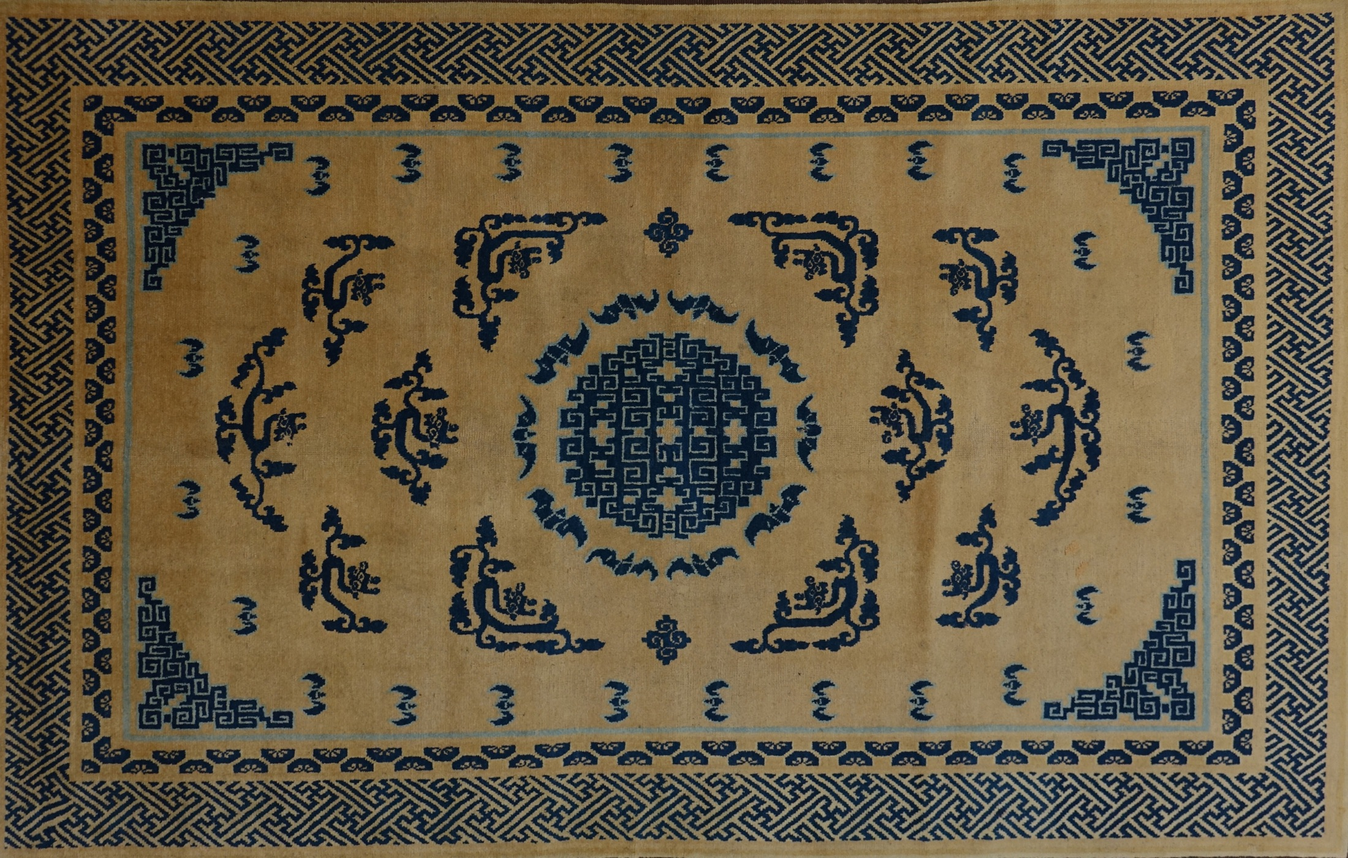
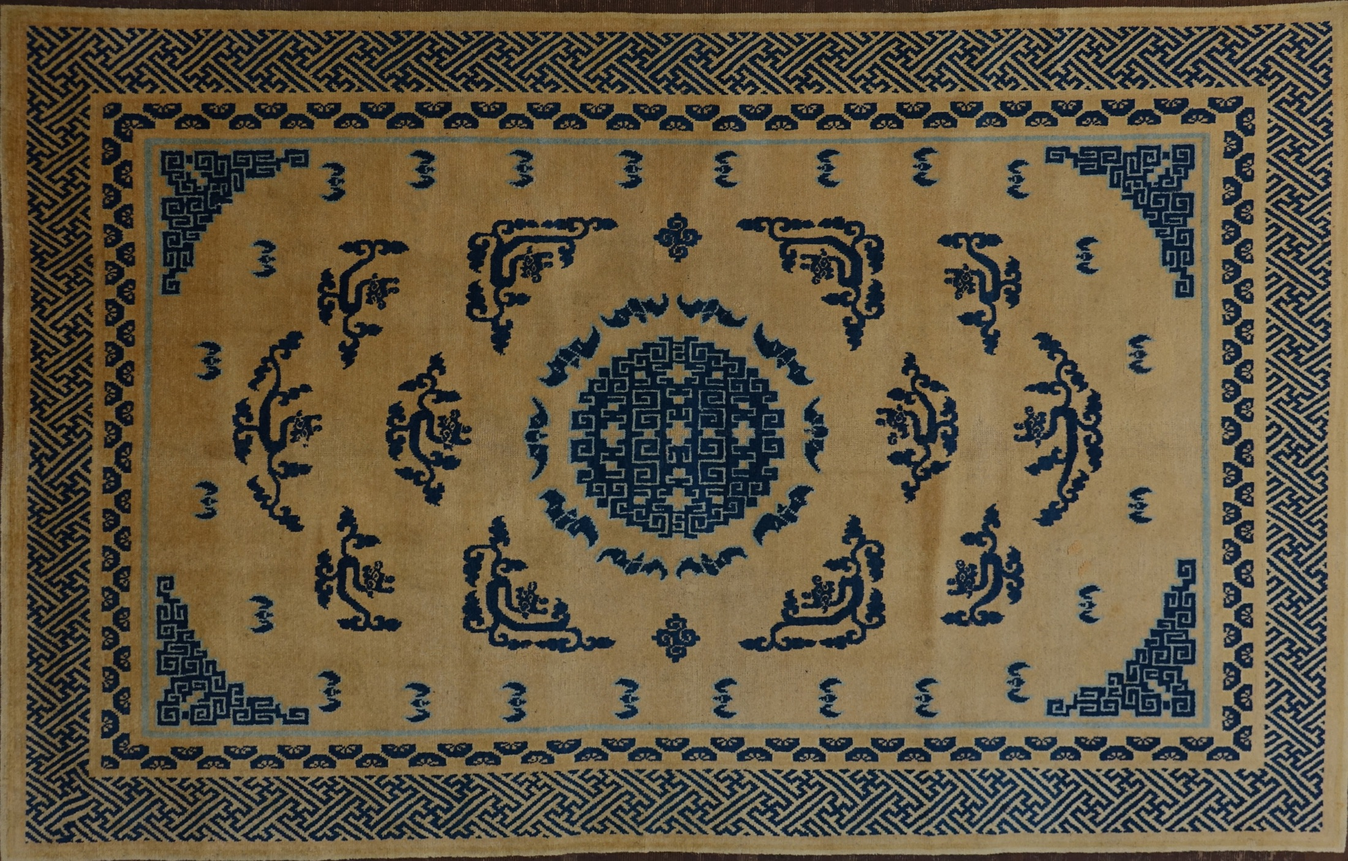
Re-crop the rug photos: no backdrop strip or doubled fringe at the ends
crop-rug.swift flipped the crop rectangle as if cropping(to:) measured
from the bottom-left. It measures from the top-left, so every crop
slid along the rug's length: one end cut into the border, the other
kept the photo's own fringe and a strip of the grey backdrop, which
showed as a grey band beside Underrug's fringe. It also now needs 80%
of a row to be rug, so fringe strands with backdrop between them stay
out.

diff --git a/scripts/crop-rug.swift b/scripts/crop-rug.swift
@@ -15,17 +15,19 @@ for (cx, cy) in [(0, 0), (dw - 6, 0), (0, dh - 6), (dw - 6, dh - 6)] { for y in 
 func far(_ c: (Double, Double, Double)) -> Bool { bg.allSatisfy { b in abs(c.0-b.0) + abs(c.1-b.1) + abs(c.2-b.2) > 60 } }
 var colHit = [Int](repeating: 0, count: dw), rowHit = [Int](repeating: 0, count: dh)
 for y in 0..<dh { for x in 0..<dw where far(p(x, y)) { colHit[x] += 1; rowHit[y] += 1 } }
-let cols = colHit.indices.filter { Double(colHit[$0]) > Double(dh) * 0.55 }, rows = rowHit.indices.filter { Double(rowHit[$0]) > Double(dw) * 0.55 }
+// 80%: a row of fringe strands has backdrop showing between them, so it falls short and is left out
+// (Underrug draws its own fringe)
+let cols = colHit.indices.filter { Double(colHit[$0]) > Double(dh) * 0.8 }, rows = rowHit.indices.filter { Double(rowHit[$0]) > Double(dw) * 0.8 }
 guard let x0 = cols.first, let x1 = cols.last, let y0 = rows.first, let y1 = rows.last else { fatalError("no rug found") }
 let s = Double(src.width) / Double(dw)
-// trim a hair more so no background sliver survives; CG y is bottom-up in the bitmap, rows were read top-down
-let inset = 0.022
+// trim a hair more so no background sliver survives
+let inset = 0.012
 let w = Double(x1 - x0), h = Double(y1 - y0)
 var r = CGRect(x: (Double(x0) + w * inset) * s, y: (Double(y0) + h * inset) * s, width: w * (1 - 2 * inset) * s, height: h * (1 - 2 * inset) * s)
 r = r.integral.intersection(CGRect(x: 0, y: 0, width: src.width, height: src.height))
-// bitmap rows: CGContext with data stores row 0 at the top of memory = top of the image when drawn y-up? draw flips; map back
-let flipped = CGRect(x: r.minX, y: CGFloat(src.height) - r.maxY, width: r.width, height: r.height)
-guard let cut = src.cropping(to: flipped) ?? src.cropping(to: r) else { fatalError("crop failed") }
+// a bitmap context's first row in memory is the top of the image, and cropping(to:) also measures
+// from the top-left, so the rows found above map straight across
+guard let cut = src.cropping(to: r) else { fatalError("crop failed") }
 // landscape, long side capped
 let rotate = cut.height > cut.width
 let ow = rotate ? cut.height : cut.width, oh = rotate ? cut.width : cut.height
